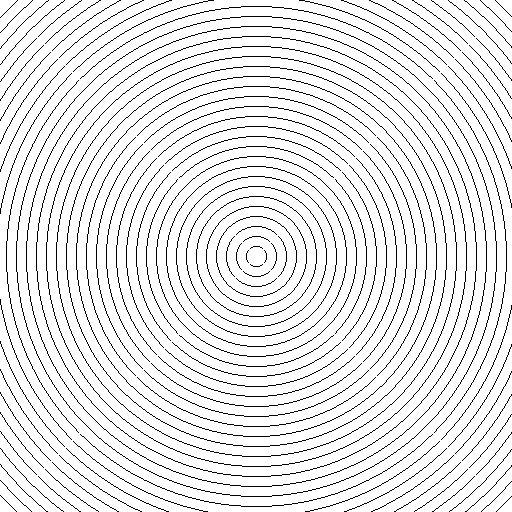
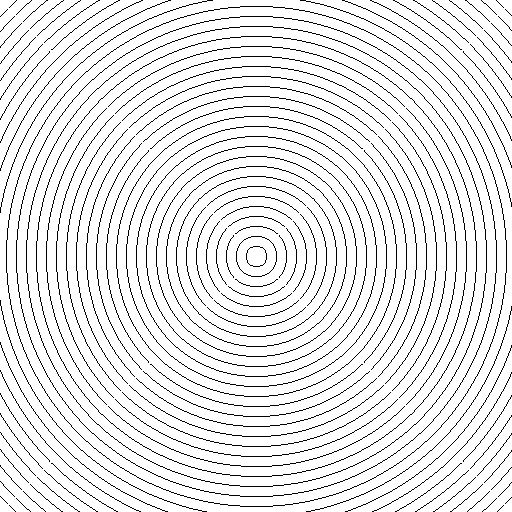
继续画直线算法

diff --git a/用C语言画直线/stitchheart.c b/用C语言画直线/stitchheart.c
@@ -1,0 +1,48 @@
+#include "svpng.inc"
+#include <math.h>   // ceilf(), floorf(), fminf(), fmaxf(), sinf(), cosf(), sqrtf()
+#include <string.h> // memset()
+#define PI 3.14159265359f
+#define W 1024
+#define H 1024
+static unsigned char img[W * H * 3];
+
+float capsuleSDF(float px, float py, float ax, float ay, float bx, float by, float r) {
+    float pax = px - ax, pay = py - ay, bax = bx - ax, bay = by - ay;
+    float h = fmaxf(fminf((pax * bax + pay * bay) / (bax * bax + bay * bay), 1.0f), 0.0f);
+    float dx = pax - bax * h, dy = pay - bay * h;
+    return sqrtf(dx * dx + dy * dy) - r;
+}
+
+void alphablend(int x, int y, float alpha, float r, float g, float b) {
+    unsigned char* p = img + (y * W + x) * 3;
+    p[0] = (unsigned char)(p[0] * (1 - alpha) + r * alpha * 255);
+    p[1] = (unsigned char)(p[1] * (1 - alpha) + g * alpha * 255);
+    p[2] = (unsigned char)(p[2] * (1 - alpha) + b * alpha * 255);
+}
+
+void lineSDFAABB(float ax, float ay, float bx, float by, float r) {
+    int x0 = (int)floorf(fminf(ax, bx) - r);
+    int x1 = (int) ceilf(fmaxf(ax, bx) + r);
+    int y0 = (int)floorf(fminf(ay, by) - r);
+    int y1 = (int) ceilf(fmaxf(ay, by) + r);
+    for (int y = y0; y <= y1; y++)
+        for (int x = x0; x <= x1; x++)
+            alphablend(x, y, fmaxf(fminf(0.5f - capsuleSDF(x, y, ax, ay, bx, by, r), 1.0f), 0.0f), 1.0f, 0.0f, 0.0f);
+}
+
+int main() {
+    memset(img, 255, sizeof(img));
+    float cx = W * 0.5f, cy = H * 0.5f;
+    float r = fminf(W, H) * 0.45f;
+#define S(a, b) lineSDFAABB(cx + r * cosf(a), cy - r * sinf(a), cx + r * cosf(b), cy - r * sinf(b), 0.5f)
+    for (int i = 0; i <= 64; i++) {
+        float t = i * (0.5f * PI / 64.0f);
+        S(t, t - PI * 0.5f);
+        S(t + PI, t + PI * 0.5f);
+        S(t, t * 2.0f + PI * 0.5f);
+        S(PI - t, PI * 0.5f - t * 2.0f);
+        S(PI * 1.5f, PI * 1.5f - t);
+        S(PI * 1.5f, PI * 1.5f + t);
+    }
+    svpng(fopen("stitchheart.png", "wb"), W, H, img, 0);
+}

diff --git a/用C语言画直线/SDFAABB.c b/用C语言画直线/SDFAABB.c
@@ -1,0 +1,55 @@
+#include <stdio.h>
+#include <stdlib.h>
+#include <math.h>
+#include <string.h>
+#include "svpng.inc"
+#define PI 3.14159265359f
+#define W 512
+#define H 512
+unsigned char img[W * H * 3];
+
+void alphablend(int x, int y, float alpha, float r, float g, float b){
+	unsigned char *p = img + (y * W + x) * 3;
+	p[0] = (unsigned char) (p[0] * (1 - alpha) + r * alpha * 255);
+	p[1] = (unsigned char) (p[1] * (1 - alpha) + g * alpha * 255);
+	p[2] = (unsigned char) (p[2] * (1 - alpha) + b * alpha * 255);
+}
+
+float capsuleSDF(float px, float py, float ax, float ay, float bx, float by, float r) {
+    float pax = px - ax, pay = py - ay, bax = bx - ax, bay = by - ay;
+    float h = fmaxf(fminf((pax * bax + pay * bay) / (bax * bax + bay * bay), 1.0f), 0.0f);
+    float dx = pax - bax * h, dy = pay - bay * h;
+    return sqrtf(dx * dx + dy * dy) - r; // 只改变这句及返回类型
+}
+
+void lineSDFAABB(float ax, float ay, float bx, float by, float r){
+	int x0 = (int)floorf(fminf(ax, bx) - r);
+	int x1 = (int)ceilf(fmaxf(ax, bx) + r);
+	int y0 = (int)floorf(fminf(ay, by) - r);
+	int y1 = (int)ceilf(fmaxf(ay, by) + r);
+	for(int y = y0; y <= y1; y ++){
+		for(int x = x0; x <= x1; x++){
+			alphablend(x, y, fmaxf(fminf(0.5f - capsuleSDF(x, y, ax, ay, bx, by, r), 1.0f), 0.0f), 0.0f, 0.0f, 0.0f);
+		}
+	}
+}
+
+// 带符号距离场（signed distance field, SDF）
+int main(){
+	memset(img, 255, sizeof(img));
+	float cx = W * 0.5f;
+	float cy = H * 0.5f;
+	for(int j = 0; j < 5; j ++){
+		float r1 = fminf(W, H) * (j + 0.5f) * 0.085f;
+		float r2 = fminf(W, H) * (j + 1.5f) * 0.085f;
+		float t = j * PI / 64.0f, r = (j + 1) * 0.5f;
+		for(int i = 1; i <= 64; i++){
+			float ct = cosf(t);
+			float st = sinf(t);
+			lineSDFAABB(cx + r1 * ct, cy - r1 * st, cx + r2 * ct, cy - r2 * st, r);
+			t += 2.0f * PI / 64.0f;
+		}
+	}
+	svpng(fopen("SDFAABB.png", "wb"), W, H, img, 0);
+	return 0;
+}

diff --git a/用C语言画直线/DDA.c b/用C语言画直线/DDA.c
@@ -1,0 +1,57 @@
+#include <stdio.h>
+#include <stdlib.h>
+#include <math.h>
+#include <string.h>
+#include "svpng.inc"
+#define PI 3.14159265359f
+#define W 512
+#define H 512
+unsigned char img[W * H * 3];
+
+// https://wenku.baidu.com/view/eb1faabab84ae45c3b358cd8.html
+
+void setPixel(int x, int y){
+	unsigned char* p = img + (y * W + x) * 3;
+	p[0] = p[1] = p[2] = 0;
+}
+
+void DDA(int x0, int y0, int x1, int y1){
+	int dx = x1 - x0;
+	int dy = y1 - y0;
+	float xIncrement,yIncrement;
+	int steps;
+	if(abs(dx) > abs(dy)){
+		steps = abs(dx);
+	} else {
+		steps = abs(dy);
+	}
+	xIncrement = dx / (float)steps;
+	yIncrement = dy / (float)steps;
+	setPixel(x0, y0);
+	float x = (float)x0;
+	float y = (float)y0;
+	for(int k = 0; k < steps; k++){
+		x += xIncrement;
+		y += yIncrement;
+		setPixel((int)round(x), (int)round(y));
+	}
+}
+
+int main(){
+	memset(img, 255, sizeof(img));
+	float cx = W * 0.5f - 0.5f;
+	float cy = H * 0.5f - 0.5f;
+	for(int j = 0; j < 5; j ++){
+		float r1 = fminf(W, H) * (j + 0.5f) * 0.085f;
+		float r2 = fminf(W, H) * (j + 1.5f) * 0.085f;
+		float t = j * PI / 64.0f;
+		for(int i = 1; i <= 64; i++){
+			float ct = cosf(t);
+			float st = sinf(t);
+			DDA((int)(cx + r1 * ct), (int)(cy - r1 * st), (int)(cx + r2 * ct), (int)(cy - r2 * st));
+			t += 2.0f * PI / 64.0f;
+		}
+	}
+	svpng(fopen("DDA.png", "wb"), W, H, img, 0);
+	return 0;
+}

diff --git a/算法导论/4/c/maxSubArrayDC.c b/算法导论/4/c/maxSubArrayDC.c
@@ -72,7 +72,7 @@ int main(){
 	int start = 0;
 	int end = len - 1;
 	SubAryData data = findMaxSubArray(ary, start, end);
-	printf("最大数组从第%d到%d个\n",data.startIndex, data.endIndex);
+	printf("最大数组从第%d到第%d个\n",data.startIndex, data.endIndex);
 	for(int i = data.startIndex; i <= data.endIndex; i++){
 		printf("%d ",ary[i]);
 	}

diff --git a/用C语言画直线/BresenhamCircle.c b/用C语言画直线/BresenhamCircle.c
@@ -32,9 +32,9 @@ void bresenhamCircle(int x0, int y0, int r){
 		setPixel(x0 + y, y0 - x);
 		
 		if(d < 0){
-			d = d + 2 * x + 3;
+			d = d + 2 * x + 1;// +3
 		} else {
-			d = d + 2 * (x - y) + 5;
+			d = d + 2 * (x - y) + 1;// +5
 			y--;
 		}
 		x++;
